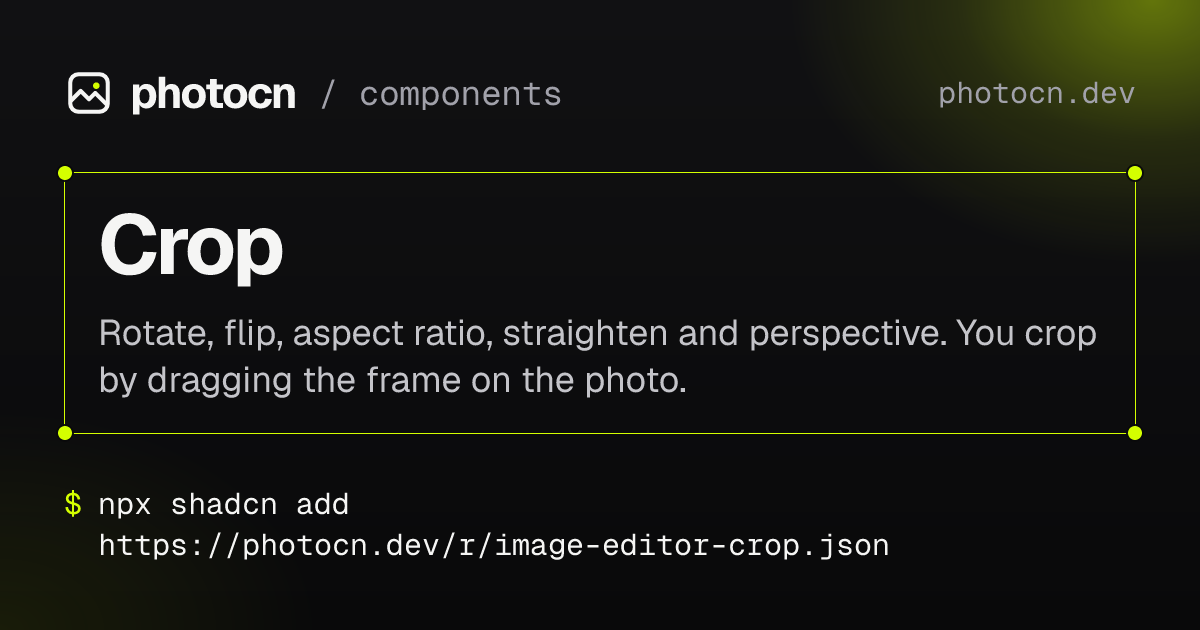
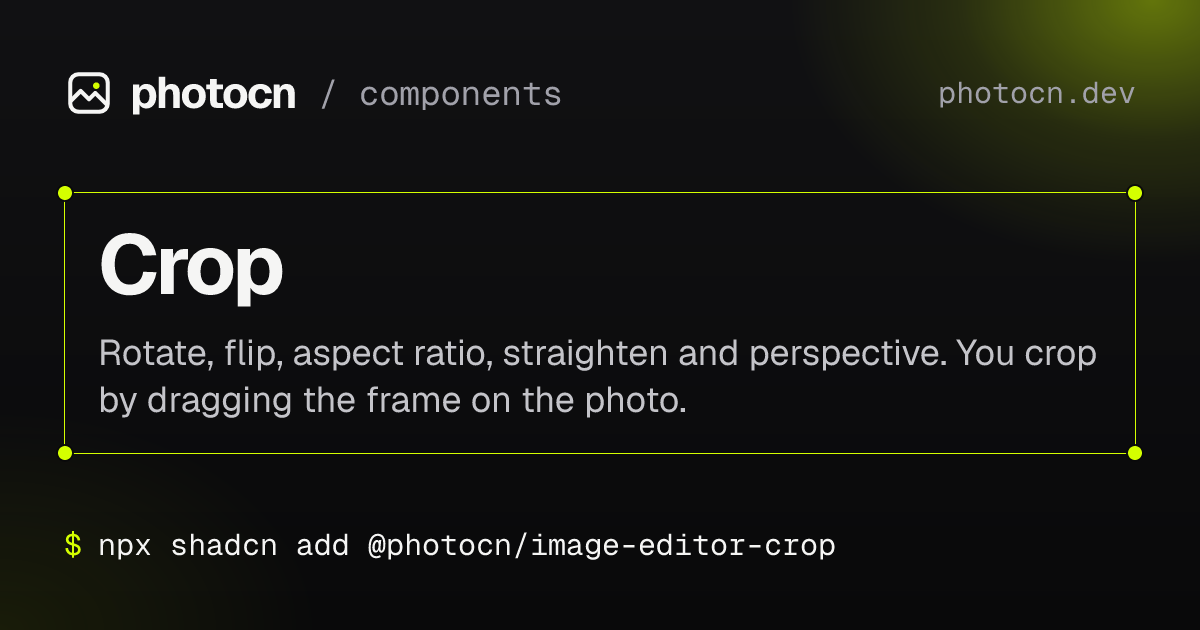
Install with npx shadcn add @photocn/... (listed in the shadcn registry directory)
- Docs, READMEs, llms.txt and agent prompt: drop the registry add step
- /blocks: remove the components.json note
- OG and banner images show the short command

diff --git a/apps/www/src/og/templates.tsx b/apps/www/src/og/templates.tsx
@@ -16,12 +16,8 @@ const MUTED = "#a1a1aa";
 const LINE = "rgba(245,245,244,0.14)";
 
 export const TAGLINE = "The photo editor for shadcn/ui";
-/**
- * The URL form works in any shadcn project today, with no registry setup.
- * Switch to `npx shadcn add @photocn/image-editor` once @photocn is listed
- * in the shadcn registry directory.
- */
-export const installCommand = (item: string) => `npx shadcn add https://photocn.dev/r/${item}.json`;
+/** @photocn is in the shadcn registry directory: no setup needed. */
+export const installCommand = (item: string) => `npx shadcn add @photocn/${item}`;
 export const INSTALL = installCommand("image-editor");
 const STACK = ["React", "TypeScript", "WebGL", "Tailwind"];
 
@@ -138,7 +134,7 @@ export function Banner({
         {TAGLINE}
       </div>
       <div style={{ display: "flex", marginTop: 20 * unit }}>
-        <Command fontSize={27 * unit} />
+        <Command fontSize={30 * unit} />
       </div>
       <div style={{ display: "flex", marginTop: 16 * unit }}>
         <Stack fontSize={26 * unit} />
@@ -226,8 +222,8 @@ export function DocOg({
         {item ? (
           <div style={{ display: "flex", gap: 16, fontFamily: "Geist Mono", fontSize: 30, lineHeight: 1.35 }}>
             <span style={{ color: ACID }}>$</span>
-            {/* Long item URLs wrap after "add" rather than shrinking. */}
-            {installCommand(item).length > 50 ? (
+            {/* Very long commands wrap after "add" rather than shrinking. */}
+            {installCommand(item).length > 56 ? (
               <div style={{ display: "flex", flexDirection: "column" }}>
                 <span>npx shadcn add</span>
                 <span>{installCommand(item).slice("npx shadcn add ".length)}</span>

diff --git a/apps/www/src/lib/agent-prompt.ts b/apps/www/src/lib/agent-prompt.ts
@@ -4,8 +4,7 @@ import { siteUrl } from "./site";
 export const agentPrompt = `Read the photocn agent instructions at ${siteUrl}/llms.txt, then add photocn to this project.
 
 1. Make sure shadcn/ui is set up with Base UI (npx shadcn@latest init -b base). The "style" in components.json must start with "base-".
-2. Register photocn: npx shadcn@latest registry add @photocn=${siteUrl}/r/{name}.json
-3. Install the editor: npx shadcn@latest add @photocn/image-editor
-4. Add a page that renders <ImageEditor src="..." className="h-dvh" /> from "@/components/image-editor/image-editor" (it's a client component).
+2. Install the editor: npx shadcn@latest add @photocn/image-editor (@photocn is in the shadcn registry directory; no setup needed)
+3. Add a page that renders <ImageEditor src="..." className="h-dvh" /> from "@/components/image-editor/image-editor" (it's a client component).
 
 Keep the existing Tailwind CSS and shadcn/ui setup. Don't rewrite the installed registry files unless the command fails; if it fails, read ${siteUrl}/r/image-editor.json and install the dependencies it lists.`;

diff --git a/apps/www/src/app/(site)/blocks/page.tsx b/apps/www/src/app/(site)/blocks/page.tsx
@@ -21,20 +21,6 @@ export default async function BlocksPage() {
         <p className="max-w-2xl text-muted-foreground">
           Ready-made photo editors. Preview them, then add one to your app with a single command.
         </p>
-        <div className="mt-2 flex max-w-2xl flex-col gap-2 rounded-lg border bg-muted/30 p-4 text-sm">
-          <p>
-            Until <code className="font-mono">@photocn</code> is listed in the shadcn registry directory, add it to your{" "}
-            <code className="font-mono">components.json</code> once:
-          </p>
-          <pre className="overflow-x-auto rounded-md bg-background p-3 font-mono text-xs">{`{
-  "registries": {
-    "@photocn": "https://photocn.dev/r/{name}.json"
-  }
-}`}</pre>
-          <p className="text-muted-foreground">
-            Or run <code className="font-mono">pnpm dlx shadcn@latest registry add @photocn=https://photocn.dev/r/{"{name}"}.json</code>.
-          </p>
-        </div>
       </header>
       {blocks.map((block, index) => (
         <BlockPreview

diff --git a/apps/www/src/lib/llm.ts b/apps/www/src/lib/llm.ts
@@ -27,7 +27,6 @@ Registry: ${siteUrl}/r/registry.json (items at ${siteUrl}/r/{name}.json)
 
 \`\`\`bash
 npx shadcn@latest init -b base
-npx shadcn@latest registry add @photocn=${siteUrl}/r/{name}.json
 ${install("image-editor")}
 \`\`\`
 

diff --git a/packages/photocn/README.md b/packages/photocn/README.md
@@ -49,7 +49,6 @@ const { blob } = await photo.export({ format: "jpeg", width: 1080 });
 Pre-styled components install through the shadcn registry:
 
 ```bash
-npx shadcn@latest registry add @photocn=https://photocn.dev/r/{name}.json
 npx shadcn@latest add @photocn/image-editor
 ```
 

diff --git a/README.md b/README.md
@@ -53,7 +53,6 @@ photocn is built on the Base UI version of shadcn/ui (the default for new projec
 
 ```bash
 npx shadcn@latest init -b base
-npx shadcn@latest registry add @photocn=https://photocn.dev/r/{name}.json
 npx shadcn@latest add @photocn/image-editor
 ```
 
